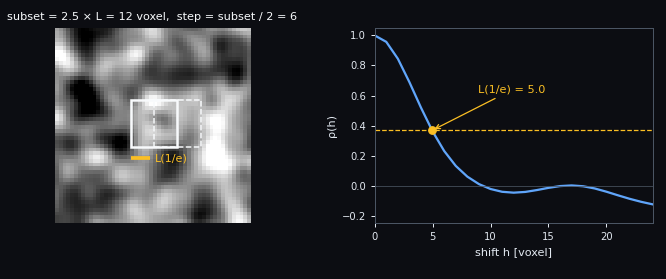
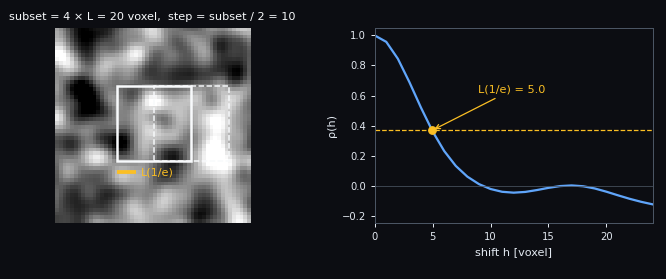
feat: subset suggestion 4 x the 1/e length by default, factor adjustable in the texture window, stated as a recommended start

Changed region(s): [[0.1502, 0.2867, 0.3303, 0.6308], [0.0, 0.0287, 0.4505, 0.086]]

diff --git a/src/al_dvc/gui/texture_window.py b/src/al_dvc/gui/texture_window.py
@@ -70,11 +70,12 @@ from al_dvc.texture import (
     sweep_concentric,
     sweep_sizes_concentric,
 )
+from al_dvc.texture.recommend import DEFAULT_FACTOR
 
 from .app_state import AppState
 from .region_viewer import REGION_COLOR, RegionViewer
 from .theme import COLORS
-from .widgets import CollapsibleSection, combo, form_label, guard_wheel, headless, make_form, spin
+from .widgets import CollapsibleSection, combo, dspin, form_label, guard_wheel, headless, make_form, spin
 
 logger = logging.getLogger(__name__)
 
@@ -453,6 +454,12 @@ class TextureWindow(QMainWindow):
         lab = form_label()
         self.labels["window_size"] = lab
         form.addRow(lab, self.window_size)
+        self.factor = dspin(1.5, 8.0, 1)
+        self.factor.setSingleStep(0.5)
+        self.factor.setValue(DEFAULT_FACTOR)
+        lab = form_label()
+        self.labels["factor"] = lab
+        form.addRow(lab, self.factor)
         lay.addLayout(form)
         self._window_source = _hint(lay)
         self._btn_analyse = QPushButton()
@@ -548,6 +555,7 @@ class TextureWindow(QMainWindow):
         for w in (*self.range_lo.values(), *self.range_hi.values()):
             w.valueChanged.connect(lambda _v: self._on_box_spins())
         self.window_size.valueChanged.connect(lambda _v: self._on_window_changed())
+        self.factor.valueChanged.connect(lambda _v: self._on_factor_changed())
         for w in (self.sweep_start, self.sweep_step):
             w.valueChanged.connect(lambda _v: self._refresh_validity())
         self.plot_background.currentIndexChanged.connect(lambda _i: self._redraw())
@@ -944,7 +952,7 @@ class TextureWindow(QMainWindow):
         self.result = result
         self._result_source = self._job_source
         self._previous_note = ""
-        self.recommendation = recommend_parameters(result) if result.status == "ok" else None
+        self.recommendation = self._recommend(result)
         self._progress.setValue(1000)
         self._settle()
         self._fill_table()
@@ -1028,6 +1036,19 @@ class TextureWindow(QMainWindow):
         self._state.log(self.tr("Window set to {edge} voxel from the RVE analysis").format(edge=edge))
         self.go_to_step(TAB_ACF)
 
+    def _recommend(self, result):
+        """The subset suggestion for ``result`` with the factor of step 3 (``None`` without texture)."""
+        if result is None or result.status != "ok":
+            return None
+        return recommend_parameters(result, factor=float(self.factor.value()))
+
+    def _on_factor_changed(self) -> None:
+        """A new factor re-derives the suggestion from the existing analysis; nothing is recomputed."""
+        if self._updating or self._is_running():
+            return
+        self.recommendation = self._recommend(self.result)
+        self._refresh_validity()
+
     def apply_recommendation(self) -> None:
         rec = self.recommendation
         if rec is None:
@@ -1085,7 +1106,11 @@ class TextureWindow(QMainWindow):
                 ws=" x ".join(str(e + 1) for e in rec.subset), st=" x ".join(str(s) for s in rec.step)
             )
         )
-        notes = [self.tr("{factor} x the 1/e correlation length per axis").format(factor=f"{rec.factor:g}")]
+        notes = [
+            self.tr("{factor} x the 1/e length per axis: a recommended start, not a guarantee. Check the run and adjust.").format(
+                factor=f"{rec.factor:g}"
+            )
+        ]
         notes += list(rec.notes)
         if self.is_stale:
             notes.append(self.tr("From a previous input: the reference, region, window or calibration changed."))
@@ -1412,6 +1437,7 @@ class TextureWindow(QMainWindow):
             "sweep_step": self.tr("Size step [voxel]"),
             "box": self.tr("Bounding box [voxel]"),
             "stable_length": self.tr("Stable length [voxel]"),
+            "factor": self.tr("Subset / L(1/e)"),
         }
         for key, lab in self.labels.items():
             lab.setText(texts[key])
@@ -1419,6 +1445,12 @@ class TextureWindow(QMainWindow):
             self.tr(
                 "Edge of the cubic window compared with its shifted copies. The shifts reach (region - window) / 2 "
                 "on every axis, so a larger window inside the same region sees shorter shifts."
+            )
+        )
+        self.labels["factor"].setToolTip(
+            self.tr(
+                "Subset edge per axis as a multiple of the 1/e correlation length. 4 is the recommended start, not a "
+                "guarantee: a noisy scan may need more, a finely varying displacement field less."
             )
         )
         self.labels["sweep_start"].setToolTip(self.tr("Edge of the smallest window analysed"))

diff --git a/scripts/make_guide_animations.py b/scripts/make_guide_animations.py
@@ -6,7 +6,7 @@ Output (``src/al_dvc/gui/assets/guide/``):
   by the shift h while the curve rho(h) is traced; the region edge stops the copy.
 * ``rve_sweep.gif``      -- the RVE analysis: windows of growing size, all centred in the region and
   analysed with the same shifts, and the correlation length settling with the size.
-* ``subset.png``         -- from the 1/e length to the subset: subset = 2.5 x L(1/e), step = subset / 2.
+* ``subset.png``         -- from the 1/e length to the subset: subset = factor x L(1/e), step = subset / 2.
 
 Everything is 2-D for legibility; the GUI does the same in 3-D. Run from the repository root::
 
@@ -26,6 +26,7 @@ from matplotlib.animation import FuncAnimation, PillowWriter  # noqa: E402
 from matplotlib.patches import FancyArrowPatch, Rectangle  # noqa: E402
 from scipy.ndimage import gaussian_filter  # noqa: E402
 
+from al_dvc.texture.recommend import DEFAULT_FACTOR  # noqa: E402
 from al_dvc.texture.rve import DEFAULT_MIN_SPAN, DEFAULT_TOLERANCE_ABS, DEFAULT_TOLERANCE_REL, decide_plateau  # noqa: E402
 
 OUT = Path(__file__).resolve().parents[1] / "src" / "al_dvc" / "gui" / "assets" / "guide"
@@ -266,7 +267,7 @@ def make_subset(tex: np.ndarray) -> None:
     shifts = np.arange(0, 25)
     rho = np.array([rho_2d(tex, region, window, int(h), 0) for h in shifts])
     L = length_1e(rho, shifts.astype(float))
-    subset = 2.5 * L
+    subset = DEFAULT_FACTOR * L
     step = subset / 2
 
     fig, (ax_img, ax_curve) = plt.subplots(
@@ -291,7 +292,9 @@ def make_subset(tex: np.ndarray) -> None:
     ax_img.add_patch(Rectangle((-half + step, -half), subset, subset, fill=False, ec=WINDOW, lw=1.2, ls="--"))
     ax_img.plot([-half, -half + L], [-half - 3, -half - 3], color=THRESHOLD, lw=3, solid_capstyle="butt")
     ax_img.text(-half + L + 1.5, -half - 3, "L(1/e)", color=THRESHOLD, fontsize=9, ha="left", va="center")
-    ax_img.set_title(f"subset = 2.5 × L = {subset:.0f} voxel,  step = subset / 2 = {step:.0f}", color=WINDOW, fontsize=9)
+    ax_img.set_title(
+        f"subset = {DEFAULT_FACTOR:g} × L = {subset:.0f} voxel,  step = subset / 2 = {step:.0f}", color=WINDOW, fontsize=9
+    )
     ax_img.set_xlim(-crop - 0.5, crop - 0.5)
     ax_img.set_ylim(-crop - 0.5, crop - 0.5)
 

diff --git a/src/al_dvc/gui/guide_window.py b/src/al_dvc/gui/guide_window.py
@@ -180,12 +180,17 @@ class GuideWindow(QMainWindow):
         t["subset_head"].setText(self.tr("Step 3: from the length to the subset"))
         t["subset_body"].setText(
             self.tr(
-                "A subset must span several correlation lengths on every axis, so it always holds enough texture: the "
-                "suggestion is 2.5 times the 1/e length per axis, rounded to an odd number of voxels, with a step of half "
-                "the subset. Apply writes both into the DVC parameters."
+                "A subset must span several correlation lengths on every axis, so it always holds enough texture. The "
+                "suggestion is 4 times the 1/e length per axis (the factor can be changed in step 3), rounded to an odd "
+                "number of voxels, with a step of half the subset. It is a recommended start, not a guarantee: a noisy "
+                "scan may need a larger subset, a finely varying displacement field a smaller one. Check the run and "
+                "adjust. Apply writes both into the DVC parameters."
             )
         )
-        t["subset_formula"].setText("subset ≈ 2.5 · L(1/e)   step ≈ subset / 2")
+        t["subset_formula"].setText(
+            "subset ≈ 4 · L(1/e)   step ≈ subset / 2"
+            "<br><span style='color:#94a3b8; font-size:12px;'>" + self.tr("recommended start, not a guarantee") + "</span>"
+        )
         t["subset_caption"].setText(
             self.tr("The 1/e length on the texture, the subset it suggests and the step to the next subset.")
         )

diff --git a/src/al_dvc/texture/recommend.py b/src/al_dvc/texture/recommend.py
@@ -1,10 +1,12 @@
 """Subset and step suggestions from the correlation lengths: a starting point, not a rule.
 
 The subset along an axis is set to ``factor`` times the 1/e correlation length along that
-axis (2.5 by default), so it spans a few independent features; the step is a fraction of the
+axis (4 by default), so it spans several independent features; the step is a fraction of the
 subset. A periodic texture pushes the subset above one period, a high noise floor is reported.
-The report validates the factor on synthetic pairs; the user sees the lengths the suggestion
-came from and can change every number.
+The factor is a recommended start, not a guarantee: the report only shows that the error keeps
+falling up to about four on a synthetic pair; a noisy scan may need more, a finely varying
+displacement field less. The user sees the lengths the suggestion came from and can change
+every number.
 """
 
 from __future__ import annotations
@@ -17,7 +19,7 @@ from .acf import AXES
 from .analysis import TextureResult
 from .crossing import THRESHOLDS
 
-DEFAULT_FACTOR = 2.5
+DEFAULT_FACTOR = 4.0
 MIN_EDGE = 8
 MAX_EDGE = 128
 STEP_FRACTION = 0.5

diff --git a/tests/test_texture_rve.py b/tests/test_texture_rve.py
@@ -119,9 +119,9 @@ def test_recommendation_follows_the_directional_lengths():
     aniso = gaussian_filter(rng.normal(size=(64, 64, 64)), sigma=(4.0, 1.5, 1.5))  # long along z
     res = analyse_texture(aniso, max_lag=20)
     rec = recommend_parameters(res)
-    assert rec.factor == 2.5 and all(e % 2 == 0 for e in rec.subset) and all(s % 2 == 0 for s in rec.step)
+    assert rec.factor == 4.0 and all(e % 2 == 0 for e in rec.subset) and all(s % 2 == 0 for s in rec.step)
     assert rec.subset[2] > rec.subset[0] and rec.subset[0] == rec.subset[1]
-    assert rec.subset[2] >= 2.5 * res.length("z") - 2 and rec.step[2] == max(2, rec.subset[2] // 2 + rec.subset[2] // 2 % 2)
+    assert rec.subset[2] >= 4.0 * res.length("z") - 2 and rec.step[2] == max(2, rec.subset[2] // 2 + rec.subset[2] // 2 % 2)
     assert rec.basis["z"] == res.length("z")
     big = recommend_parameters(res, factor=40.0)
     assert big.subset[2] == 128 and all(8 <= e <= 128 for e in big.subset)  # clamped to the largest edge

diff --git a/CHANGELOG.md b/CHANGELOG.md
@@ -13,6 +13,9 @@ All notable changes to pyALDVC are documented here. The format follows
   subset. Regenerated by `scripts/make_guide_animations.py`.
 
 ### Changed
+- Subset suggestion: 4 times the 1/e length per axis by default (was 2.5), adjustable in
+  step 3 of the texture window; the window and the guide say it is a recommended start, not
+  a guarantee.
 - Strain, texture and guide windows are independent windows: they no longer stay pinned
   above the main window.
 - RVE result shown as a headline (the window) and one stable length per threshold instead
